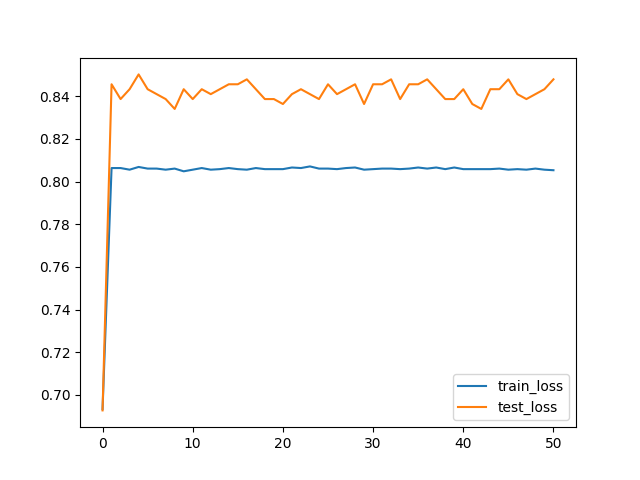
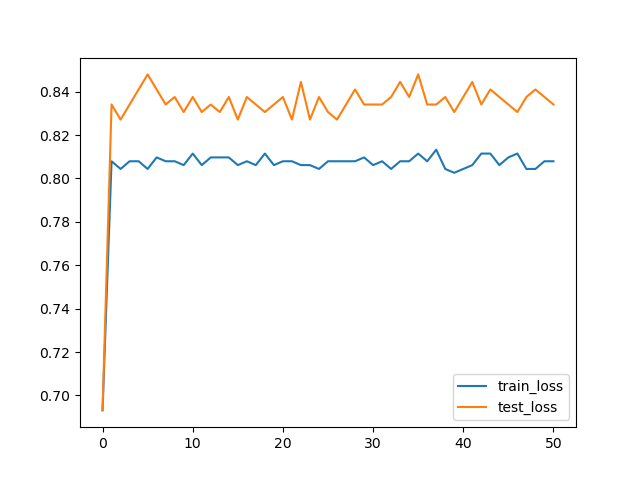
done plot precision recall and f1 score

diff --git a/plot_loss.py b/plot_loss.py
@@ -29,3 +29,22 @@ def compare_model(npy_path1,npy_path2,model_name1,model_name2,name="./plot_image
     plt.legend()
     plt.savefig(name)
     plt.show()
+
+#input the path of saved npy file, generate PR and F1 score along the training process
+def plot_PR_F1(path,name):
+    y = np.load(path)
+    len_ = len(y)/7
+    x = np.linspace(0, len_ - 1, int(len_))
+    Y_precision = y[4::7]
+    Y_recall = y[5::7]
+    Y_F1 = y[6::7]
+    plt.plot(x,Y_precision,label="precision")
+    plt.plot(x,Y_recall,label="recall")
+    plt.plot(x,Y_F1,label="F1 score")
+    plt.legend()
+    plt.savefig(name)
+    plt.show()
+    print("done")
+
+if __name__ == '__main__':
+    plot_PR_F1("/Users/jas0n/PycharmProjects/covid_ct/precision_recall/res50.npy","./plot_image/res50_PRF1.png")

diff --git a/plot_loss_forModel.py b/plot_loss_forModel.py
@@ -1,5 +1,5 @@
 from plot_loss import plot,compare_model
-plot("./loss/res50.npy",name="./plot_image/resnet50")
-# plot("./loss/vgg19.npy",name="./plot_image/vgg19")
+#plot("./loss/res50.npy",name="./plot_image/resnet50")
+plot("./loss/vgg19.npy",name="./plot_image/vgg19")
 # plot("./loss/res34.npy",name="./plot_image/resnet34")
 #compare_model("./loss/res50.npy","./loss/res34.npy","resnet50","resnet34","./plot_image/res34&res50")
